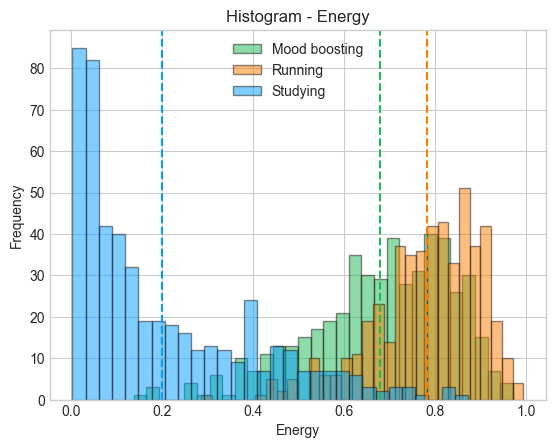
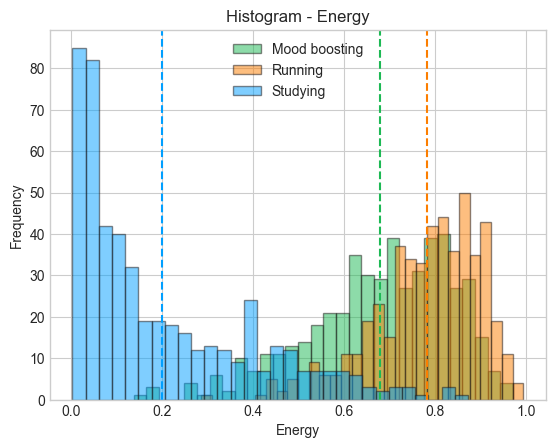
Update data

diff --git a/tables/t_tests.tex b/tables/t_tests.tex
@@ -2,17 +2,17 @@
 \toprule
    group &      feature &  p-value corrected &  p-value uncorrected &  t-value &  significant \\
 \midrule
- running &        tempo &              0.000 &                0.000 &   -4.258 &         True \\
-studying &        tempo &              1.000 &                0.851 &   -0.188 &        False \\
- running &     loudness &              1.000 &                0.172 &   -1.368 &        False \\
-studying &     loudness &              0.000 &                0.000 &   40.789 &         True \\
- running &       energy &              0.000 &                0.000 &  -11.597 &         True \\
-studying &       energy &              0.000 &                0.000 &   42.890 &         True \\
- running & danceability &              1.000 &                0.527 &    0.633 &        False \\
-studying & danceability &              0.000 &                0.000 &   19.514 &         True \\
- running &  speechiness &              0.111 &                0.009 &   -2.608 &        False \\
-studying &  speechiness &              0.000 &                0.000 &    5.371 &         True \\
- running &      valence &              0.349 &                0.029 &    2.186 &        False \\
-studying &      valence &              0.000 &                0.000 &   28.678 &         True \\
+ running &        tempo &              0.000 &                0.000 &   -4.239 &         True \\
+studying &        tempo &              1.000 &                0.790 &   -0.267 &        False \\
+ running &     loudness &              1.000 &                0.126 &   -1.532 &        False \\
+studying &     loudness &              0.000 &                0.000 &   40.655 &         True \\
+ running &       energy &              0.000 &                0.000 &  -11.687 &         True \\
+studying &       energy &              0.000 &                0.000 &   42.839 &         True \\
+ running & danceability &              1.000 &                0.498 &    0.677 &        False \\
+studying & danceability &              0.000 &                0.000 &   19.452 &         True \\
+ running &  speechiness &              0.108 &                0.009 &   -2.618 &        False \\
+studying &  speechiness &              0.000 &                0.000 &    5.372 &         True \\
+ running &      valence &              0.471 &                0.039 &    2.064 &        False \\
+studying &      valence &              0.000 &                0.000 &   28.625 &         True \\
 \bottomrule
 \end{tabular}

diff --git a/tables/descriptive_statistics.tex b/tables/descriptive_statistics.tex
@@ -2,23 +2,23 @@
 \toprule
         group &      feature &    mean &  standard deviation &  standard error \\
 \midrule
-mood boosting &        tempo & 118.869 &              25.796 &           1.159 \\
-      running &        tempo & 125.258 &              21.343 &           0.953 \\
+mood boosting &        tempo & 118.726 &              25.795 &           1.159 \\
+      running &        tempo & 125.060 &              21.112 &           0.942 \\
      studying &        tempo & 119.213 &              31.712 &           1.411 \\
-mood boosting &     loudness &  -6.104 &               2.255 &           0.101 \\
-      running &     loudness &  -5.917 &               2.057 &           0.092 \\
+mood boosting &     loudness &  -6.141 &               2.273 &           0.102 \\
+      running &     loudness &  -5.929 &               2.090 &           0.093 \\
      studying &     loudness & -20.420 &               7.551 &           0.336 \\
-mood boosting &       energy &   0.681 &               0.158 &           0.007 \\
-      running &       energy &   0.782 &               0.116 &           0.005 \\
+mood boosting &       energy &   0.680 &               0.158 &           0.007 \\
+      running &       energy &   0.783 &               0.116 &           0.005 \\
      studying &       energy &   0.201 &               0.194 &           0.009 \\
-mood boosting & danceability &   0.651 &               0.110 &           0.005 \\
-      running & danceability &   0.646 &               0.115 &           0.005 \\
+mood boosting & danceability &   0.650 &               0.111 &           0.005 \\
+      running & danceability &   0.645 &               0.115 &           0.005 \\
      studying & danceability &   0.460 &               0.190 &           0.008 \\
 mood boosting &  speechiness &   0.066 &               0.056 &           0.003 \\
       running &  speechiness &   0.077 &               0.073 &           0.003 \\
      studying &  speechiness &   0.049 &               0.043 &           0.002 \\
 mood boosting &      valence &   0.592 &               0.209 &           0.009 \\
-      running &      valence &   0.563 &               0.215 &           0.010 \\
+      running &      valence &   0.564 &               0.215 &           0.010 \\
      studying &      valence &   0.233 &               0.186 &           0.008 \\
 \bottomrule
 \end{tabular}
